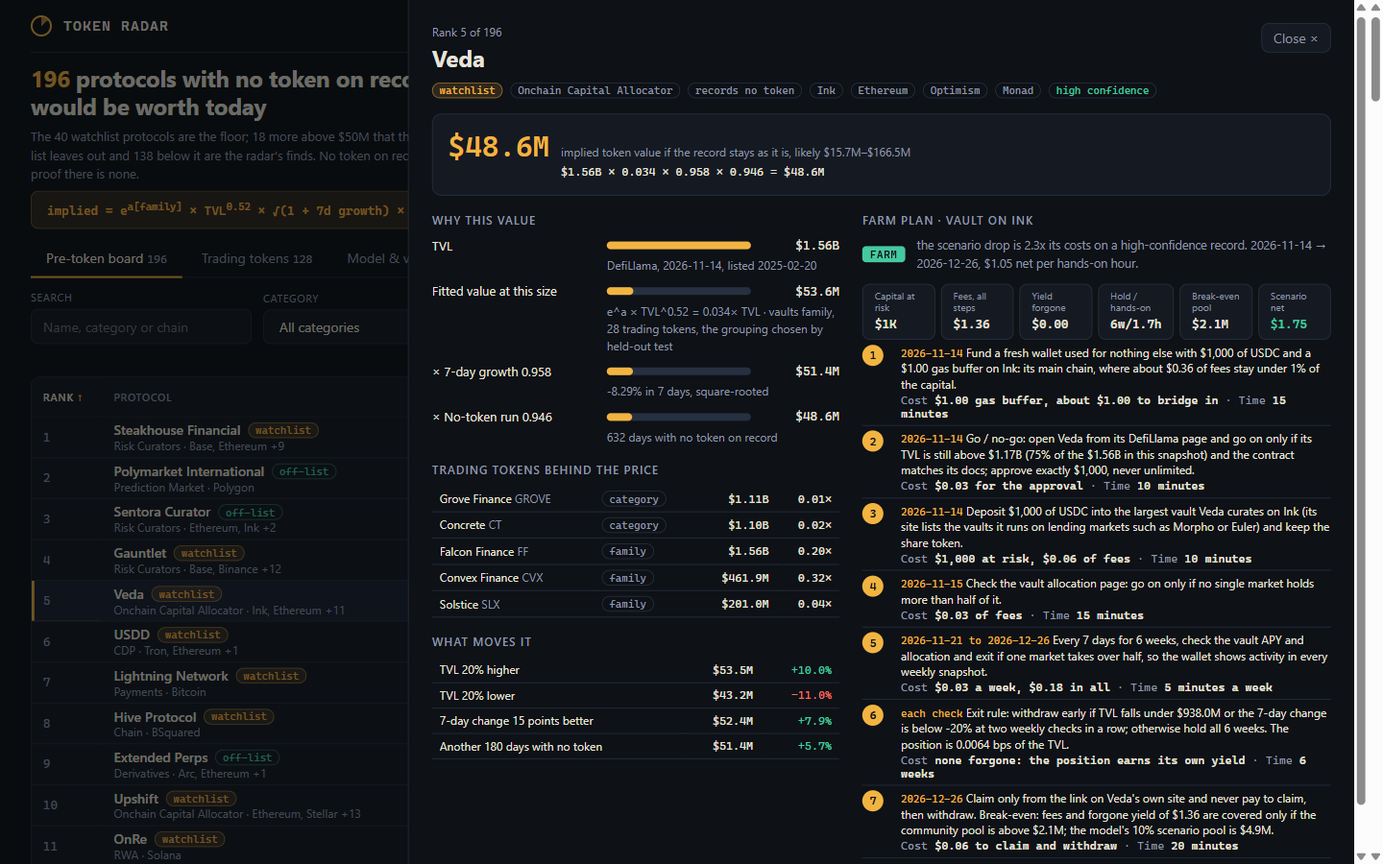
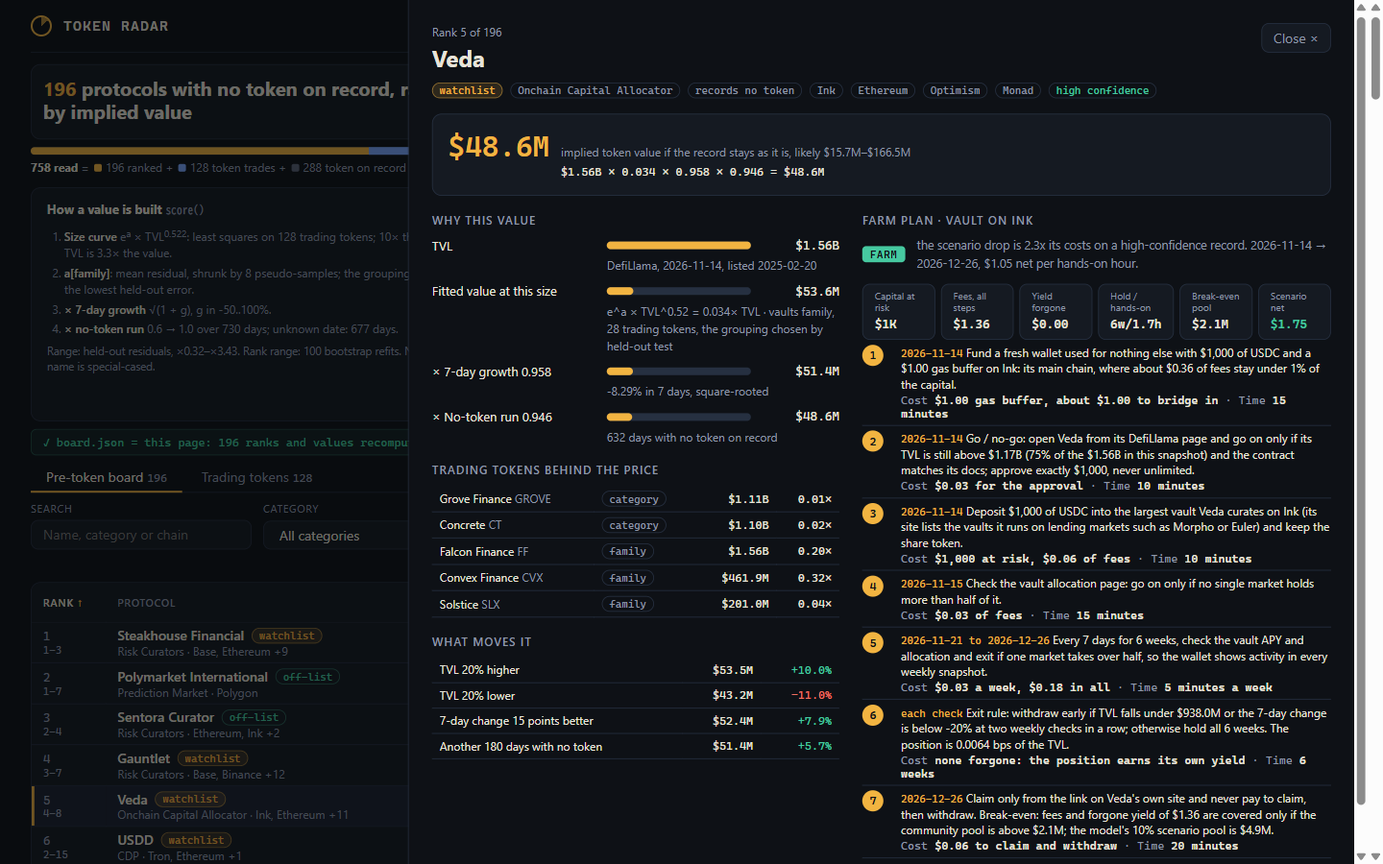
v6 board: accounting of all 758 protocols, value/scatter/out-of-sample panels, board.json digest check, bootstrap rank ranges
Claude-Session: https://claude.ai/code/session_01XCZATB7wwYYeTKfzcKkcxL

Changed region(s): [[0.0, 0.0622, 0.3125, 0.4667], [0.0312, 0.4978, 0.2812, 0.9956]]

diff --git a/dashboard/app.js b/dashboard/app.js
@@ -5,7 +5,7 @@
 //   1 radar      model.js buildRadar (watchlist, off-list, early rows); isRankable drops exchanges, bridges,
 //                staking receipts, wrapped and versioned products; tokenStatus keeps trading tokens apart.
 //   2 value      model.js calibrate (fit, grouping and terms chosen by held-out error, walk-forward test),
-//                score (growth, no-token run, range). Shown by hero, model, detail.
+//                score (growth, no-token run, range); rankRanges, digest. Shown by top, detail.
 //   3 farm plans model.js farmPlan: dated steps with cost and time, go/no-go and exit rules, break-even,
 //                Farm / Thin / Skip verdict, net per hands-on hour. Shown by board and detail.
 //   4 page       visibleRows (search, category, chain, tier, verdict, momentum), th (every column sorts), detail.
@@ -17,14 +17,11 @@
 
   var DEFAULTS = { tab: 'board', q: '', cat: '', chain: '', tier: 'all', verdict: 'all', mom: 'all', sort: 'rank', dir: 'asc', p: '' };
   var state = readHash();
-  var overrides = {};           // Model tab sliders: changes to MODEL, applied to the whole page
   var radar, bySlug, rawBySlug = {};
   SNAP.protocols.forEach(function (p) { rawBySlug[p.slug] = p; });
 
   function rebuild() {
-    var model = {};
-    Object.keys(M.MODEL).forEach(function (k) { model[k] = overrides.hasOwnProperty(k) ? overrides[k] : M.MODEL[k]; });
-    radar = M.buildRadar(SNAP, model);
+    radar = M.buildRadar(SNAP);
     bySlug = {};
     radar.rows.forEach(function (r) { bySlug[r.slug] = r; });
   }
@@ -94,30 +91,60 @@
   }
   function med(xs) { var a = xs.slice().sort(function (x, y) { return x - y; }); return a.length ? a[(a.length - 1) >> 1] : 0; }
 
-  // ---- header, hero and the model strip ----
+  // ---- header and the top of the board: what was read, how a value is built, how it was tested ----
   function renderMeta() {
-    var custom = Object.keys(overrides).length ? ' <b class="warn">custom</b>' : '';
     document.getElementById('meta').innerHTML = '<span>Snapshot <b>' + esc(radar.as_of) + '</b></span><span>DefiLlama index, <b>' + radar.universe +
-      '</b> protocols</span><span>Model <b>' + esc(radar.model.version) + '</b>' + custom + '</span>';
+      '</b> protocols</span><span>Model <b>' + esc(radar.model.version) + '</b></span>';
   }
-  function hero(rows) {
-    var c = radar.calibration, v = c.validation, n = function (t) { return radar.rows.filter(function (r) { return r.tier === t; }).length; };
-    var sum = rows.reduce(function (a, r) { return a + r.implied_value_usd; }, 0);
-    var shown = rows.length === radar.rows.length ? 'all ' + rows.length : rows.length + ' shown';
-    return '<section class="hero"><div><h1><em>' + radar.rows.length + '</em> protocols with no token on record, ranked by what one would be worth today</h1>' +
-      '<p>The ' + radar.watchlist_size + ' watchlist protocols are the floor; ' + n('off-list') + ' more above $' + radar.floor_usd / 1e6 + 'M that the house list leaves out and ' + n('early') +
-      ' below it are the radar\'s finds. No token on record is not proof there is none.</p></div>' +
-      '<div class="kpis"><div class="kpi ok"><span>Watchlist covered</span><b>' + n('watchlist') + ' / ' + radar.watchlist_size + '</b></div>' +
-      '<div class="kpi"><span>Implied value, ' + shown + '</span><b>' + money(sum) + '</b></div>' +
-      '<div class="kpi"><span>Median drop / $1k, ' + shown + '</span><b>' + money(med(rows.map(function (r) { return r.model.per_1k; }))) + '</b></div>' +
-      '<div class="kpi"><span>Out-of-sample error</span><b>' + v.model.toFixed(1) + '&times;</b><small>flat 0.25&times;TVL: ' + v.starter_quarter.toFixed(1) + '&times;</small></div></div></section>' +
-      '<div class="strip mono"><b>implied = e<sup>a[' + c.structure + ']</sup> &times; TVL<sup>' + c.elasticity.toFixed(2) + '</sup> &times; &radic;(1 + 7d growth) &times; no-token run</b>' +
-      '<span>fitted on ' + c.n + ' trading tokens, ' + c.structure + ' chosen by test &middot; ten times the TVL &rarr; ' + Math.pow(10, c.elasticity).toFixed(1) + '&times; the value</span></div>';
+  var GROUPS = [['ranked', ['watchlist', 'off-list', 'early']], ['token trades', ['token trades']], ['token on record', ['token on record, no cap']],
+    ['bridges', ['bridge']], ['exchanges', ['exchange']], ['staking receipts', ['staking receipt']], ['versioned or wrapped', ['versioned release', 'wrapped or staked']]];
+  function accounting() {
+    var R = radar.reasons, parts = GROUPS.map(function (g) { return [g[0], g[1].reduce(function (a, k) { return a + (R[k] || 0); }, 0)]; });
+    return '<div class="acct"><div class="acbar">' + parts.map(function (x, i) { return '<i class="g' + i + '" style="width:' + (x[1] / radar.universe * 100).toFixed(2) + '%"></i>'; }).join('') +
+      '</div><p><b>' + radar.universe + ' read</b> = ' + parts.map(function (x, i) { return '<span class="k g' + i + '"></span>' + x[1] + ' ' + x[0]; }).join(' + ') +
+      '. Ranked: ' + R.watchlist + ' watchlist, ' + R['off-list'] + ' off-list above $' + radar.floor_usd / 1e6 + 'M, ' + R.early + ' early below it.</p></div>';
+  }
+  // Every trading token at its market cap, every ranked protocol at its implied value, and the fitted curve.
+  function scatter() {
+    var c = radar.calibration, W = 420, H = 150, lx = function (v) { return Math.log(v) / Math.LN10; };
+    var X = function (v) { return ((lx(v) - 6.7) / 3.6 * W + 34).toFixed(1); }, Y = function (v) { return (H - (lx(Math.max(v, 1e5)) - 5) / 6 * H + 4).toFixed(1); };
+    var g = function (t) { return Math.exp(c.intercepts.global + c.elasticity * Math.log(t)); };
+    var s = '<svg class="sc" viewBox="0 0 460 176" role="img" aria-label="Market cap or implied value against TVL">';
+    [1e7, 1e8, 1e9, 1e10].forEach(function (t) { s += '<text x="' + X(t) + '" y="172">' + money(t) + '</text>'; });
+    [1e6, 1e8, 1e10].forEach(function (t) { s += '<text x="0" y="' + Y(t) + '">' + money(t) + '</text>'; });
+    s += c.points.map(function (q) { return '<circle class="tr" cx="' + X(q.tvl) + '" cy="' + Y(q.mcap) + '" r="2.4"/>'; }).join('');
+    s += radar.rows.map(function (r) { return '<circle class="pt" cx="' + X(r.tvl_usd) + '" cy="' + Y(r.implied_value_usd) + '" r="2.4"/>'; }).join('');
+    return s + '<line class="ln" x1="' + X(5e6) + '" y1="' + Y(g(5e6)) + '" x2="' + X(2e10) + '" y2="' + Y(g(2e10)) + '"/></svg>';
+  }
+  function top(rows) {
+    var c = radar.calibration, v = c.validation, st = v.structures, wf = v.walk_forward, tm = v.terms, m = radar.model, R = radar.reasons;
+    var farm = rows.filter(function (r) { return r.plan.verdict === 'farm'; }).length;
+    var row = function (label, x, cls) { return '<tr' + (cls ? ' class="' + cls + '"' : '') + '><td>' + label + '</td><td class="n">' + x.toFixed(2) + '&times;</td></tr>'; };
+    var ok = window.BOARD_DIGEST === radar.digest;
+    return '<section class="kpis"><div class="kpi"><h1><em>' + radar.rows.length + '</em> protocols with no token on record, ranked by implied value</h1></div>' +
+      '<div class="kpi ok"><span>Watchlist covered</span><b>' + R.watchlist + ' / ' + radar.watchlist_size + '</b></div>' +
+      '<div class="kpi"><span>Trading, set apart</span><b>' + c.n + '</b></div>' +
+      '<div class="kpi"><span>Held-out error</span><b>' + v.model.toFixed(2) + '&times;</b><small>flat 0.25&times;TVL ' + v.starter_quarter.toFixed(2) + '&times;</small></div>' +
+      '<div class="kpi"><span>Farm verdicts, ' + rows.length + ' shown</span><b>' + farm + '</b></div></section>' + accounting() +
+      '<section class="panels"><div class="card"><h2>How a value is built <code>score()</code></h2><ol class="how">' +
+      '<li><b>Size curve</b> e<sup>a</sup> &times; TVL<sup>' + c.elasticity.toFixed(3) + '</sup>: least squares on ' + c.n + ' trading tokens; 10&times; the TVL is ' + Math.pow(10, c.elasticity).toFixed(1) + '&times; the value.</li>' +
+      '<li><b>a[' + c.structure + ']</b>: mean residual, shrunk by ' + m.shrink + ' pseudo-samples; the grouping with the lowest held-out error.</li>' +
+      '<li><b>&times; 7-day growth</b> &radic;(1 + g), g in ' + m.growth_floor + '..' + m.growth_cap + '%.</li>' +
+      '<li><b>&times; no-token run</b> ' + m.runway_floor + ' &rarr; 1.0 over ' + m.runway_days + ' days; unknown date: ' + c.median_age_days + ' days.</li></ol>' +
+      '<p>Range: held-out residuals, &times;' + Math.exp(c.band.lo).toFixed(2) + '&ndash;&times;' + Math.exp(c.band.hi).toFixed(2) + '. Rank range: 100 bootstrap refits. No name is special-cased.</p></div>' +
+      '<div class="card"><h2>Trading tokens set the curve; the rest sit on it</h2>' + scatter() + '<p><span class="k tr"></span>' + c.n + ' trading, market cap <span class="k pt"></span>' + radar.rows.length + ' ranked, implied value <span class="k ln"></span>fitted curve</p></div>' +
+      '<div class="card"><h2>Out of sample <code>calibrate()</code></h2><table class="peers"><tbody>' +
+      row('Flat 0.25 &times; TVL (the starter)', v.starter_quarter) + row('One size curve for all', st.global, c.structure === 'global' ? 'win' : '') +
+      row('Family intercepts', st.family, c.structure === 'family' ? 'win' : '') + row('Category intercepts', st.category, c.structure === 'category' ? 'win' : '') +
+      row('+ 7-day growth fitted', tm.growth_fitted) + row('+ listing age fitted', tm.age_fitted) +
+      row('Walk-forward: ' + wf.test + ' listed from ' + esc(wf.from) + ' (flat ' + wf.starter_quarter.toFixed(2) + '&times;)', wf.model, 'win') + '</tbody></table>' +
+      '<p>Each token held out and predicted from the rest; median miss as a factor. Fitted growth and age do not help, so both stay damped priors.</p></div></section>' +
+      '<p class="check ' + (ok ? 'yes' : 'no') + '">' + (ok ? '&#10003;' : '&#10007;') + ' board.json = this page: ' + radar.rows.length + ' ranks and values recomputed here by buildRadar, digest ' + radar.digest + (ok ? ' matches' : ' differs from') + ' the one main.ts wrote. ' + R.watchlist + '/' + radar.watchlist_size + ' watchlist ranked; values never rise down the ranks.</p>';
   }
   function tabs() {
-    var t = [['board', 'Pre-token board', radar.rows.length], ['trading', 'Trading tokens', radar.trading.length], ['model', 'Model & validation', '']];
+    var t = [['board', 'Pre-token board', radar.rows.length], ['trading', 'Trading tokens', radar.trading.length]];
     return '<nav class="tabs" role="tablist">' + t.map(function (x) {
-      return '<button class="tab" role="tab" data-tab="' + x[0] + '" aria-selected="' + (state.tab === x[0]) + '">' + x[1] + (x[2] !== '' ? '<small>' + x[2] + '</small>' : '') + '</button>';
+      return '<button class="tab" role="tab" data-tab="' + x[0] + '" aria-selected="' + (state.tab === x[0]) + '">' + x[1] + '<small>' + x[2] + '</small></button>';
     }).join('') + '</nav>';
   }
 
@@ -144,7 +171,7 @@
       th('age', 'No-token run', 'n hide-m') + th('mult', 'Value / TVL', 'n hide-m') + th('implied', 'Implied value', 'n') + th('k', 'Drop / $1k', 'n') + th('net', 'Farm net', 'n hide-m') + th('hour', 'Verdict', 'hide-m') + '</tr></thead><tbody>';
     html += rows.map(function (r) {
       var w = Math.max(2, Math.round(Math.sqrt(r.implied_value_usd / top) * 84));
-      return '<tr data-slug="' + esc(r.slug) + '"' + (state.p === r.slug ? ' class="sel"' : '') + '><td class="rank">' + r.rank + '</td>' +
+      return '<tr data-slug="' + esc(r.slug) + '"' + (state.p === r.slug ? ' class="sel"' : '') + '><td class="rank">' + r.rank + '<div class="range">' + r.rank_range[0] + '&ndash;' + r.rank_range[1] + '</div></td>' +
         '<td><div class="pname">' + esc(r.name) + ' ' + tierTag(r.tier) + '</div><div class="psub">' + cat(r) + ' &middot; ' + chains(r.chains) + '</div></td>' +
         '<td class="n">' + money(r.tvl_usd) + '</td><td class="n">' + pct(r.change_7d) + '</td><td class="n hide-m">' + age(r.model.age_days) + '</td>' +
         '<td class="n hide-m">' + r.model.multiple.toFixed(3) + '&times;</td>' +
@@ -167,35 +194,7 @@
       return '<tr><td><div class="pname">' + esc(t.name) + '</div><div class="psub">' + cat(t) + '</div></td><td class="mono">' + esc(t.symbol || '') + '</td><td class="n">' + money(t.tvl_usd) + '</td><td class="n">' +
         money(t.mcap_usd) + '</td><td class="n">' + t.market_multiple.toFixed(2) + '&times;</td><td class="n">' + money(t.model_base) + '</td><td class="n ' + (ratio >= 1 ? 'up' : 'down') + '">' + ratio.toFixed(2) + '&times;</td></tr>';
     }).join('');
-    return html + '</tbody></table></div><p class="note">Top 60 by market cap. ' + radar.recorded_size + ' more record a token id or symbol with no market cap: neither ranked nor used to calibrate.</p>';
-  }
-
-  // ---- model tab ----
-  var SLIDERS = [['shrink', 'Shrink pseudo-samples', 0, 20, 1], ['runway_floor', 'Runway at day 0', 0.2, 1, 0.05], ['growth_cap', 'Growth cap %', 10, 200, 5], ['airdrop_share', 'Drop scenario share', 0.02, 0.3, 0.01]];
-  function model() {
-    var m = radar.model, c = radar.calibration, v = c.validation, ic = c.intercepts;
-    var row = function (label, x, bold) { return '<tr><td>' + label + '</td><td class="n">' + (bold ? '<b>' + x.toFixed(2) + '&times;</b>' : x.toFixed(2) + '&times;') + '</td></tr>'; };
-    var st = v.structures, wf = v.walk_forward, tm = v.terms;
-    var html = '<div class="cols"><div class="card"><h2>How a row gets its value</h2><div class="formula">implied = e^a[' + c.structure + '] &times; tvl_usd ^ ' + c.elasticity.toFixed(3) +
-      '\n  &times; sqrt(1 + clamp(change_7d, ' + m.growth_floor + ', ' + m.growth_cap + ') / 100)\n  &times; (' + m.runway_floor + ' + ' + (1 - m.runway_floor).toFixed(2) + ' &times; min(age_days, ' + m.runway_days + ') / ' + m.runway_days + ')</div><ul>' +
-      '<li><b>calibrate</b> fits b and the intercepts on ' + c.n + ' trading tokens and picks the grouping by held-out error.</li>' +
-      '<li>Growth and no-token run are stated priors; the tests (right) show neither predicts cap. Missing listing date: ' + c.median_age_days + ' days.</li>' +
-      '<li>Range: held-out residuals, &times;' + Math.exp(c.band.lo).toFixed(2) + '&ndash;&times;' + Math.exp(c.band.hi).toFixed(2) + '.</li></ul>' +
-      '<h2>Try the constants</h2><p>Releasing a slider re-runs <b>buildRadar</b> and every test.</p>';
-    html += SLIDERS.map(function (s) {
-      return '<div class="slider"><label for="s-' + s[0] + '">' + s[1] + '</label><input id="s-' + s[0] + '" type="range" min="' + s[2] + '" max="' + s[3] + '" step="' + s[4] + '" value="' + m[s[0]] + '" data-k="' + s[0] + '"><span class="mono" id="v-' + s[0] + '">' + m[s[0]] + '</span></div>';
-    }).join('') + (Object.keys(overrides).length ? '<button class="link" data-resetmodel>Back to ' + esc(M.MODEL.version) + '</button>' : '') + '</div>';
-    html += '<div class="card"><h2>Tests: each trading token held out and predicted from the rest</h2><p>Median error as a factor: 2&times; means the typical cap is half or double the prediction.</p><table class="peers"><tbody>' +
-      '<tr class="fam"><td colspan="2">Which grouping (lowest wins)</td></tr>' + row('One curve for all', st.global, c.structure === 'global') + row('Family intercepts', st.family, c.structure === 'family') + row('Category intercepts', st.category, c.structure === 'category') +
-      '<tr class="fam"><td colspan="2">Against the flat 0.25 &times; TVL</td></tr>' + row('Flat 0.25 &times; TVL, all tokens', v.starter_quarter) +
-      row('Walk-forward: fit on the ' + wf.train + ' listed first, predict the ' + wf.test + ' listed from ' + esc(wf.from), wf.model, true) + row('Flat 0.25 &times; TVL on those ' + wf.test, wf.starter_quarter) +
-      '<tr class="fam"><td colspan="2">Terms kept only if the test keeps them</td></tr>' + row('Chosen model', v.model, true) + row('+ 7-day growth prior applied to caps', tm.growth_prior) +
-      row('+ 7-day growth fitted', tm.growth_fitted) + row('+ listing age fitted', tm.age_fitted) +
-      '<tr><td>Chosen model within 2&times; of the market</td><td class="n">' + Math.round(v.within_2x * 100) + '%</td></tr></tbody></table>' +
-      '<h2>Intercepts</h2><table class="peers"><thead><tr><th>Family</th><th class="n">Trading</th><th class="n">Value at $100M TVL</th></tr></thead><tbody>';
-    var at = function (a) { return money(Math.exp(a + c.elasticity * Math.log(1e8))); };
-    html += Object.keys(ic.families).sort().map(function (f) { return '<tr class="fam"><td>' + esc(f) + ' (family)</td><td class="n">' + ic.families[f].n + '</td><td class="n">' + at(ic.families[f].a) + '</td></tr>'; }).join('');
-    return html + '</tbody></table></div></div>';
+    return html + '</tbody></table></div><p class="note">Top 60 by market cap. ' + radar.reasons['token on record, no cap'] + ' more record a token id or symbol with no market cap: neither ranked nor used to calibrate.</p>';
   }
 
   // ---- detail drawer ----
@@ -247,8 +246,7 @@
     var focus = document.activeElement && document.activeElement.id, caret = focus === 'q' ? document.activeElement.selectionStart : null;
     renderMeta();
     var rows = visibleRows();
-    var body = state.tab === 'trading' ? trading() : state.tab === 'model' ? model() : board(rows);
-    app.innerHTML = hero(state.tab === 'board' ? rows : radar.rows) + tabs() + body;
+    app.innerHTML = top(state.tab === 'board' ? rows : radar.rows) + tabs() + (state.tab === 'trading' ? trading() : board(rows));
     app.setAttribute('aria-busy', 'false');
     if (focus) { var el = document.getElementById(focus); if (el) { el.focus(); if (caret !== null) el.setSelectionRange(caret, caret); } }
     openDetail();
@@ -265,18 +263,14 @@
     if (t.dataset.mom) return set({ mom: t.dataset.mom });
     if (t.dataset.verdict) return set({ verdict: t.dataset.verdict });
     if (t.hasAttribute('data-reset')) return set({ q: '', cat: '', chain: '', tier: 'all', verdict: 'all', mom: 'all' });
-    if (t.hasAttribute('data-resetmodel')) { overrides = {}; rebuild(); return render(); }
     if (t.dataset.slug) return set({ p: t.dataset.slug });
   });
   app.addEventListener('input', function (e) {
-    if (e.target.id === 'q') return set({ q: e.target.value });
-    // Dragging moves only the label; the page re-ranks on release, so the drag is never cut.
-    if (e.target.dataset.k) document.getElementById('v-' + e.target.dataset.k).textContent = e.target.value;
+    if (e.target.id === 'q') set({ q: e.target.value });
   });
   app.addEventListener('change', function (e) {
     if (e.target.id === 'cat') return set({ cat: e.target.value });
-    if (e.target.id === 'chain') return set({ chain: e.target.value });
-    if (e.target.dataset.k) { overrides[e.target.dataset.k] = Number(e.target.value); rebuild(); render(); }
+    if (e.target.id === 'chain') set({ chain: e.target.value });
   });
   drawer.addEventListener('click', function (e) { if (e.target.closest('[data-close]')) set({ p: '' }); });
   scrim.addEventListener('click', function () { set({ p: '' }); });

diff --git a/dashboard/theme.css b/dashboard/theme.css
@@ -27,33 +27,26 @@ button, input, select { font: inherit; color: inherit; }
 .sweep::after { content: ''; position: absolute; inset: 0; background: conic-gradient(from 0deg, var(--amber) 0 50deg, transparent 50deg); opacity: 0.7; }
 .meta { color: var(--dim); font: 12px var(--mono); display: flex; gap: var(--s4); flex-wrap: wrap; justify-content: flex-end; }
 .meta b { color: var(--text); font-weight: 500; }
-.hero { display: grid; grid-template-columns: minmax(0, 1fr) minmax(0, 1fr); gap: var(--s5); padding: var(--s3) 0 var(--s2); align-items: end; }
-.hero h1 { font-size: 24px; line-height: 1.2; margin: 0 0 var(--s2); letter-spacing: -0.01em; }
-.hero h1 em { font-style: normal; color: var(--amber); }
-.hero p { margin: 0; color: var(--dim); max-width: 64ch; font-size: 13px; }
-.kpis { display: grid; grid-template-columns: repeat(4, 1fr); gap: var(--s2); }
+.kpis { display: grid; grid-template-columns: 2.2fr repeat(4, 1fr); gap: var(--s2); padding: var(--s3) 0 var(--s2); }
+.kpi h1 { font-size: 20px; line-height: 1.2; margin: 0; }
+.kpi h1 em { font-style: normal; color: var(--amber); }
 .kpi { background: var(--panel); border: 1px solid var(--line); border-radius: var(--r); padding: var(--s3); }
 .kpi span { display: block; color: var(--dim); font-size: 11px; text-transform: uppercase; letter-spacing: 0.06em; }
 .kpi b { font: 600 20px var(--mono); }
 .kpi.ok b { color: var(--teal); }
 .kpi small { display: block; color: var(--dim); font: 11px var(--mono); }
-.strip { display: flex; justify-content: space-between; gap: var(--s4); flex-wrap: wrap; background: var(--amber-soft); border: 1px solid rgba(242, 180, 65, 0.35); border-radius: 8px; padding: var(--s2) var(--s4); color: var(--amber); font-size: 13px; }
-.strip span { color: var(--dim); font-size: 12px; }
-.strip b { font-weight: 500; }
-.warn { color: var(--amber); }
-.lead { margin: var(--s4) 0; max-width: 110ch; }
-.tabs { display: flex; gap: var(--s1); border-bottom: 1px solid var(--line); margin-top: var(--s3); }
-.tab { background: none; border: 0; padding: var(--s2) var(--s4); color: var(--dim); cursor: pointer; border-bottom: 2px solid transparent; margin-bottom: -1px; }
+.tabs { display: flex; gap: var(--s1); border-bottom: 1px solid var(--line); margin-top: 0; }
+.tab { background: none; border: 0; padding: 4px var(--s4); color: var(--dim); cursor: pointer; border-bottom: 2px solid transparent; margin-bottom: -1px; }
 .tab[aria-selected='true'] { color: var(--text); border-bottom-color: var(--amber); }
 .tab small { font-family: var(--mono); color: var(--dim); margin-left: var(--s1); }
-.controls { display: flex; flex-wrap: wrap; gap: var(--s3); align-items: end; padding: var(--s3) 0 var(--s2); }
+.controls { display: flex; flex-wrap: wrap; gap: var(--s3); align-items: end; padding: var(--s2) 0; }
 .field { display: flex; flex-direction: column; gap: var(--s1); }
 .field label, .field .lbl { font-size: 11px; color: var(--dim); text-transform: uppercase; letter-spacing: 0.06em; }
-.field input, .field select { background: var(--panel); border: 1px solid var(--line); border-radius: 8px; padding: 7px var(--s3); min-width: 150px; }
+.field input, .field select { background: var(--panel); border: 1px solid var(--line); border-radius: 8px; padding: 4px var(--s3); min-width: 150px; }
 .field input { min-width: 230px; }
 .field input:focus, .field select:focus, button:focus-visible { outline: 2px solid var(--amber); outline-offset: 1px; }
 .seg { display: flex; background: var(--panel); border: 1px solid var(--line); border-radius: 8px; padding: 2px; }
-.seg button { background: none; border: 0; padding: 5px var(--s3); border-radius: 6px; color: var(--dim); cursor: pointer; }
+.seg button { background: none; border: 0; padding: 2px var(--s3); border-radius: 6px; color: var(--dim); cursor: pointer; }
 .seg button[aria-pressed='true'] { background: var(--amber); color: var(--ink); font-weight: 600; }
 .count { margin-left: auto; color: var(--dim); font: 12px var(--mono); display: flex; gap: var(--s3); align-items: center; }
 .link { background: none; border: 1px solid var(--line); border-radius: 6px; padding: 4px var(--s2); color: var(--amber); cursor: pointer; font-size: 12px; }
@@ -123,18 +116,36 @@ ol.steps .ct { color: var(--dim); font: 12px var(--mono); }
 ol.steps .ct b { color: var(--text); font-weight: 500; }
 .peers td { padding: 5px var(--s2); font-size: 12px; }
 tr.fam td { color: var(--amber); }
-.cols { display: grid; grid-template-columns: minmax(0, 1fr) minmax(0, 1fr); gap: var(--s5); padding-top: var(--s4); }
 .card { background: var(--panel); border: 1px solid var(--line); border-radius: var(--r); padding: var(--s4) var(--s5); }
 .card h2 { font-size: 16px; margin: 0 0 var(--s3); }
 .card h2:not(:first-child) { margin-top: var(--s5); }
-.formula { font: 13px/1.7 var(--mono); background: var(--ink); border: 1px solid var(--line); border-radius: 8px; padding: var(--s3) var(--s4); color: var(--amber); white-space: pre-wrap; }
 .card p, .card li { color: var(--dim); }
-.card li b, .card p b { color: var(--text); font-weight: 500; }
-.slider { display: grid; grid-template-columns: 160px 1fr 60px; gap: var(--s3); align-items: center; margin: var(--s2) 0; font-size: 13px; }
-.slider input { accent-color: var(--amber); }
 @media (max-width: 900px) {
   body { padding: 0 var(--s4) var(--s6); }
-  .hero, .cols, .dgrid { grid-template-columns: 1fr; }
+  .panels, .dgrid { grid-template-columns: 1fr; }
   .kpis { grid-template-columns: repeat(2, 1fr); }
   .hide-m { display: none; }
 }
+.acct p { margin: 4px 0 0; font-size: 12px; color: var(--dim); }
+.acct p b { color: var(--text); }
+.acbar { display: flex; height: 8px; border-radius: 4px; overflow: hidden; background: var(--line); }
+.acbar i { display: block; height: 100%; }
+.k { display: inline-block; width: 8px; height: 8px; border-radius: 2px; margin: 0 4px 0 2px; vertical-align: 0; }
+.g0 { background: var(--amber); } .g1 { background: var(--blue); } .g2 { background: #5a6478; } .g3 { background: var(--teal); } .g4 { background: var(--red); } .g5 { background: #a78bfa; } .g6 { background: #3a4356; }
+.panels { display: grid; grid-template-columns: 1fr 1.05fr 1fr; gap: var(--s3); padding: var(--s3) 0 var(--s2); }
+.panels .card { padding: var(--s3) var(--s4); }
+.panels h2 { font-size: 13px; margin: 0 0 var(--s2); }
+.panels h2 code, .panels p { font-size: 11.5px; color: var(--dim); }
+.panels p { margin: 6px 0 0; line-height: 1.4; }
+ol.how { margin: 0; padding-left: 18px; font-size: 12px; line-height: 1.45; }
+ol.how li { margin-bottom: 3px; color: var(--dim); }
+ol.how b { color: var(--text); font-weight: 500; }
+.sc { width: 100%; height: auto; display: block; }
+.sc text { font: 9px var(--mono); fill: var(--dim); }
+.sc .tr { fill: var(--dim); opacity: 0.55; } .sc .pt { fill: var(--amber); opacity: 0.85; } .sc .ln { stroke: var(--teal); stroke-width: 1.5; }
+.k.tr { background: var(--dim); } .k.pt { background: var(--amber); } .k.ln { background: var(--teal); height: 2px; }
+.panels .peers td { padding: 3px var(--s2); font-size: 11.5px; }
+tr.win td { color: var(--teal); font-weight: 600; }
+.check { margin: 0 0 var(--s2); font: 12px var(--mono); padding: 6px var(--s3); border-radius: 6px; }
+.check.yes { color: var(--teal); background: rgba(70, 201, 160, 0.08); border: 1px solid rgba(70, 201, 160, 0.3); }
+.check.no { color: var(--red); border: 1px solid var(--red); }

diff --git a/dashboard/model.js b/dashboard/model.js
@@ -300,10 +300,45 @@
   }
 
   // ---- the radar
+  // Why a protocol is not on the board: every one of the snapshot's protocols gets exactly one reason.
+  function reason(p, watch, floor) {
+    if (watch[p.slug]) return 'watchlist';
+    var s = tokenStatus(p), c = p.category || '';
+    if (s === 'trading') return 'token trades';
+    if (s === 'recorded') return 'token on record, no cap';
+    if (/bridge/i.test(c)) return 'bridge';
+    if (/^(liquid staking|liquid restaking|restaked btc)$/i.test(c)) return 'staking receipt';
+    if (/cex|exchange|otc/i.test(c)) return 'exchange';
+    if (VERSIONED.test(p.name)) return 'versioned release';
+    if (WRAPPED.test(p.name)) return 'wrapped or staked';
+    return p.tvl_usd >= floor ? 'off-list' : 'early';
+  }
+  // Seeded generator (mulberry32): the same refits on every run, so the output stays byte-identical.
+  function rng(seed) {
+    return function () { seed = seed + 0x6D2B79F5 | 0; var t = Math.imul(seed ^ seed >>> 15, 1 | seed); t = t + Math.imul(t ^ t >>> 7, 61 | t) ^ t; return ((t ^ t >>> 14) >>> 0) / 4294967296; };
+  }
+  // Rank range: refit on 100 bootstrap resamples of the trading tokens, re-rank, keep the 10th..90th percentile.
+  function rankRanges(rows, cal, model) {
+    var draw = rng(20261114), pts = cal.points, seen = rows.map(function () { return []; });
+    for (var k = 0; k < 100; k++) {
+      var sample = pts.map(function () { return pts[Math.floor(draw() * pts.length)]; }), f = fit(sample, cal.structure, model.shrink, model);
+      rows.map(function (r, i) { return { i: i, v: (interceptFor(f, r.category).a + f.b * Math.log(r.tvl_usd)) + Math.log(r.model.growth * r.model.runway) }; })
+        .sort(function (a, b) { return b.v - a.v || a.i - b.i; }).forEach(function (o, j) { seen[o.i].push(j + 1); });
+    }
+    rows.forEach(function (r, i) { r.rank_range = [Math.round(quantile(seen[i], 0.1)), Math.round(quantile(seen[i], 0.9))]; });
+  }
+  // FNV-1a over every row's slug, rank and value: main.ts puts it in data.js, the page recomputes and compares.
+  function digest(rows) {
+    var h = 0x811c9dc5, s = rows.map(function (r) { return r.slug + '|' + r.rank + '|' + r.implied_value_usd; }).join('\n');
+    for (var i = 0; i < s.length; i++) { h ^= s.charCodeAt(i); h = Math.imul(h, 16777619); }
+    return ('0000000' + (h >>> 0).toString(16)).slice(-8);
+  }
+
   function buildRadar(snapshot, model) {
     model = model || MODEL;
-    var cal = calibrate(snapshot, model), watch = {};
+    var cal = calibrate(snapshot, model), watch = {}, reasons = {};
     snapshot.watchlist.forEach(function (s) { watch[s] = true; });
+    snapshot.protocols.forEach(function (p) { var r = reason(p, watch, snapshot.floor_usd); reasons[r] = (reasons[r] || 0) + 1; });
     var rows = snapshot.protocols.filter(function (p) { return watch[p.slug] || isRankable(p); }).map(function (p) {
       var s = score(p, snapshot.as_of, cal, model), plan = farmPlan(p, s, model);
       return {
@@ -316,6 +351,7 @@
     });
     rows.sort(function (a, b) { return b.implied_value_usd - a.implied_value_usd || bySlug(a, b); });
     rows.forEach(function (r, i) { r.rank = i + 1; });
+    rankRanges(rows, cal, model);
     var trading = cal.points.map(function (q) {
       return { slug: q.slug, name: q.name, category: q.cat, symbol: q.symbol, tvl_usd: q.tvl, mcap_usd: q.mcap,
         market_multiple: round4(q.mcap / q.tvl), model_base: Math.exp(interceptFor(cal.intercepts, q.cat).a + cal.elasticity * q.x) };
@@ -323,13 +359,13 @@
     return {
       as_of: snapshot.as_of, source: snapshot.source, floor_usd: snapshot.floor_usd, model: model, calibration: cal,
       watchlist_size: snapshot.watchlist.length, rows: rows, trading: trading, universe: snapshot.protocols.length,
-      recorded_size: snapshot.protocols.filter(function (p) { return tokenStatus(p) === 'recorded'; }).length
+      reasons: reasons, digest: digest(rows)
     };
   }
 
   root.RadarModel = {
     MODEL: MODEL, family: family, tokenStatus: tokenStatus, isRankable: isRankable, ageDays: ageDays,
     calibrate: calibrate, score: score, peersFor: peersFor, farmPlan: farmPlan, stepStrings: stepStrings,
-    buildRadar: buildRadar, usd: usd, big: big
+    buildRadar: buildRadar, digest: digest, usd: usd
   };
 })(typeof globalThis !== 'undefined' ? globalThis : this);

diff --git a/main.ts b/main.ts
@@ -26,7 +26,7 @@ interface Protocol {
 }
 interface Snapshot { as_of: string; source: string; floor_usd: number; protocols: Protocol[]; watchlist: string[] }
 interface Row { rank: number; slug: string; name: string; implied_value_usd: number; farm_steps: string[]; [k: string]: unknown }
-interface Radar { rows: Row[]; trading: unknown[]; calibration: { n: number; elasticity: number; validation: { model: number; starter_quarter: number } }; [k: string]: unknown }
+interface Radar { rows: Row[]; trading: unknown[]; digest: string; calibration: { n: number; elasticity: number; validation: { model: number; starter_quarter: number } }; [k: string]: unknown }
 
 function fail(message: string, code = 1): never {
   process.stderr.write(`token radar: ${message}\n`);
@@ -135,7 +135,8 @@ if (issue !== null) fail(`the model wrote a board the gate refuses: ${issue}`);
 mkdirSync(out, { recursive: true });
 writeFileSync(join(out, 'board.json'), `${JSON.stringify({ model: radar.model, as_of: snapshot.as_of, rows: radar.rows })}\n`);
 // The page re-runs the model on the snapshot itself, so data.js carries the input, not the answer.
-writeFileSync(join(out, 'data.js'), `window.SNAPSHOT=${JSON.stringify(snapshot)};\n`);
+// BOARD_DIGEST lets the page prove it shows the same board: it recomputes the digest and compares.
+writeFileSync(join(out, 'data.js'), `window.SNAPSHOT=${JSON.stringify(snapshot)};\nwindow.BOARD_DIGEST=${JSON.stringify(radar.digest)};\n`);
 
 copyFiles(join(here, 'dashboard'), join(out, 'dashboard'));
 const shots = copyFiles(join(here, 'screenshots'), join(out, 'screenshots'));
